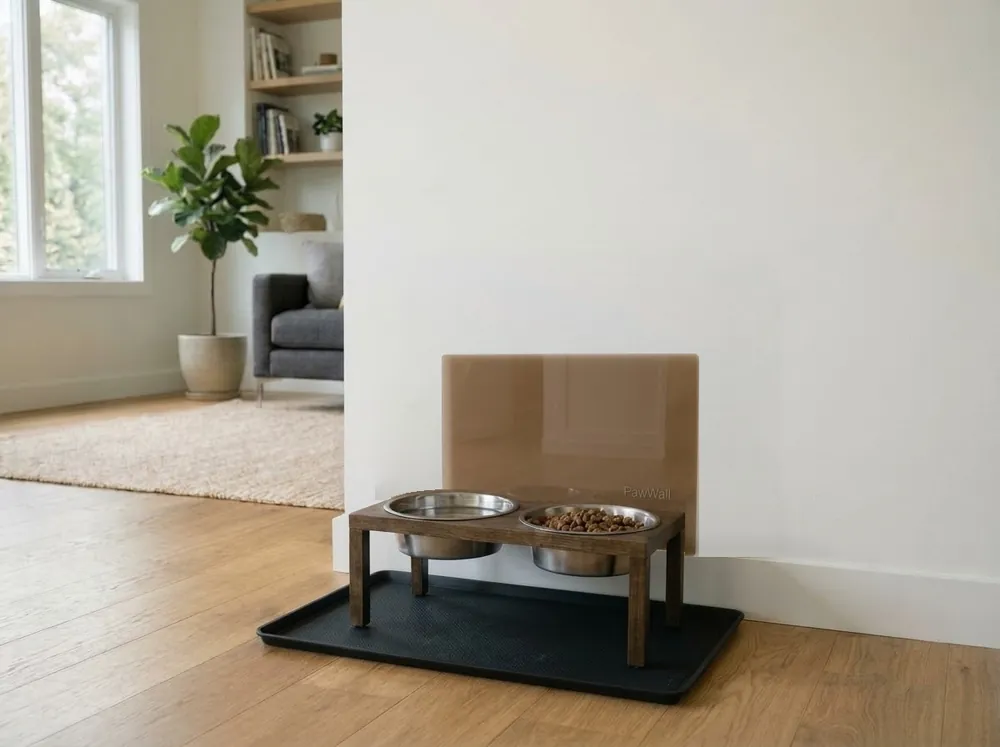
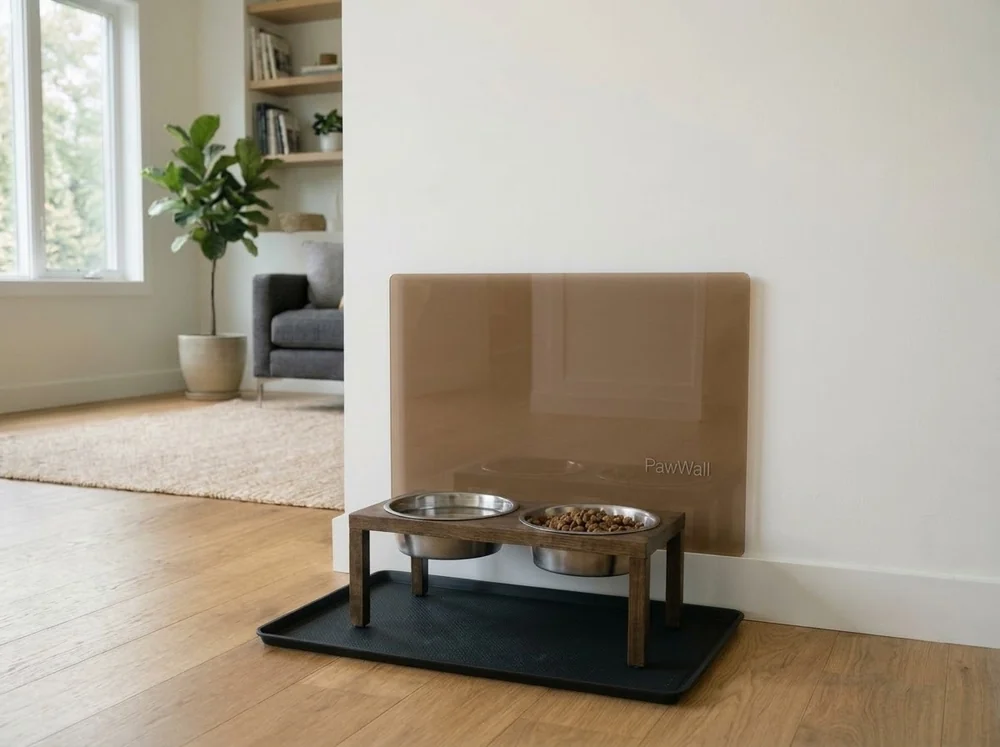
PawWall: fotos del cliente como talla M y nueva talla L con panel 70×50
Claude-Session: https://claude.ai/code/session_013GfqyHzpRR2JBrbXYAACXR

Changed region(s): [[0.372, 0.3387, 0.775, 0.7697]]

diff --git a/pawwall/app.js b/pawwall/app.js
@@ -10,7 +10,7 @@ var LINEAS={DogWall:"perros",CatWall:"gatos"};
 /* acabados disponibles en cada línea: CatWall solo en Transparente Básico */
 var ACAB={DogWall:["tr","an","br"],CatWall:["tr"]};
 /* fotos del configurador por línea, acabado y talla: [x, y, ancho, alto del panel en %, ancho y alto de la foto] */
-var FOTO={"dog-tr-L":[39,36.5,36,38.06,1200,896],"dog-an-L":[39,36.54,36,38.1,1200,895],"dog-br-L":[39,36.5,36,38.06,1200,896],"dog-tr-M":[44.17,47.32,25.75,27.23,1200,896],"dog-an-M":[44.17,47.37,25.75,27.26,1200,895],"dog-br-M":[44.17,47.32,25.75,27.23,1200,896],"cat-tr-L":[10.44,25.26,71.33,53.39,872,768],"cat-tr-M":[20.64,40.49,50.92,38.15,872,768]};
+var FOTO={"dog-tr-M":[39,36.5,36,38.06,1200,896],"dog-an-M":[39,36.54,36,38.1,1200,895],"dog-br-M":[39,36.5,36,38.06,1200,896],"dog-tr-L":[36.67,21.32,50.42,53.24,1200,896],"dog-an-L":[36.67,21.34,50.42,53.3,1200,895],"dog-br-L":[36.67,21.32,50.42,53.24,1200,896],"cat-tr-M":[10.44,25.26,71.33,53.39,872,768],"cat-tr-L":[5.03,6.32,88.34,73.28,962,768]};
 /* tienda de PawWall en Velority: productos, precios y pedidos (los gestiona Ángel desde su portal › Catálogo / Pedidos) */
 var TIENDA_CLAVE="799fe49875d3c656",API="https://ufwuvbjrgvphbggkfkuh.supabase.co/functions/v1/productos";
 var CAT={},AJUSTES=null,CAT_OK=false,alCargar=[];
@@ -42,7 +42,7 @@ function pintarCarro(){
   C.forEach(function(x){x.p=PR(x.col,x.g,x.t)+(x.nombre?GR(x.g):0)});
   var n=C.reduce(function(a,x){return a+x.q},0),t=C.reduce(function(a,x){return a+x.p*x.q},0);
   $("#n-carro").textContent=n;$("#t-carro").textContent=eur(t);
-  $("#lista").innerHTML=C.length?C.map(function(x,i){var g=GAMAS[x.g];return '<div class="linea"><img src="img/conf-'+(x.col=="CatWall"?"cat":"dog")+'-'+x.g+'-'+x.t+'.webp" alt=""><div><b>'+esc(x.col+" "+g.n)+'</b><small>Talla '+x.t+' · '+TALLAS[x.t]+(x.nombre?'<br>Nombre grabado: «'+esc(x.nombre)+'»':'')+'</small><div class="qt"><button data-i="'+i+'" data-d="-1" aria-label="Quitar uno">−</button>'+x.q+'<button data-i="'+i+'" data-d="1" aria-label="Añadir uno">+</button><button class="q" data-i="'+i+'" data-d="x">Eliminar</button></div></div><div class="pr">'+eur(x.p*x.q)+'</div></div>'}).join(""):'<p class="vacio">Tu carrito está vacío.<br><a href="configurador.html">Configura tu PawWall</a></p>';
+  $("#lista").innerHTML=C.length?C.map(function(x,i){var g=GAMAS[x.g];return '<div class="linea"><img src="img/conf-'+(x.col=="CatWall"?"cat":"dog")+'-'+x.g+'-'+x.t+'.webp?t2" alt=""><div><b>'+esc(x.col+" "+g.n)+'</b><small>Talla '+x.t+' · '+TALLAS[x.t]+(x.nombre?'<br>Nombre grabado: «'+esc(x.nombre)+'»':'')+'</small><div class="qt"><button data-i="'+i+'" data-d="-1" aria-label="Quitar uno">−</button>'+x.q+'<button data-i="'+i+'" data-d="1" aria-label="Añadir uno">+</button><button class="q" data-i="'+i+'" data-d="x">Eliminar</button></div></div><div class="pr">'+eur(x.p*x.q)+'</div></div>'}).join(""):'<p class="vacio">Tu carrito está vacío.<br><a href="configurador.html">Configura tu PawWall</a></p>';
   $("#pagar").disabled=!C.length;$("#pagar").style.opacity=C.length?1:.5;
 }
 $("#lista").addEventListener("click",function(e){var b=e.target.closest("button[data-i]");if(!b)return;var i=+b.dataset.i;if(b.dataset.d=="x")C.splice(i,1);else{C[i].q+=+b.dataset.d;if(C[i].q<1)C.splice(i,1)}guardar();pintarCarro()});
@@ -118,7 +118,7 @@ if(form){
     document.querySelectorAll('#c-acab input').forEach(function(i){i.closest('label').hidden=ok.indexOf(i.value)<0});
     $("#c-solo").hidden=ok.length>1;
     form.col.value=S.col;form.g.value=S.g;form.t.value=S.t;
-    var g=GAMAS[S.g],img=$("#c-img"),k=(S.col=="CatWall"?"cat":"dog")+"-"+S.g+"-"+S.t,f=FOTO[k],src="img/conf-"+k+".webp";
+    var g=GAMAS[S.g],img=$("#c-img"),k=(S.col=="CatWall"?"cat":"dog")+"-"+S.g+"-"+S.t,f=FOTO[k],src="img/conf-"+k+".webp?t2";
     if(img.getAttribute("src")!=src){img.style.opacity=.2;img.onload=function(){img.style.opacity=1;ajustarGrab()};img.src=src}
     img.parentNode.style.aspectRatio=f[4]+"/"+f[5];
     img.alt="Panel "+S.col+" "+g.n+" talla "+S.t+" ("+TALLAS[S.t]+") colocado en la pared";

diff --git a/pawwall/configurador.html b/pawwall/configurador.html
@@ -128,6 +128,6 @@
 <div id="p-ok" hidden></div>
 </div></dialog>
 <div class="barra-m" id="barra-m" aria-hidden="true"><div><small>Total</small><b id="bm-total"></b></div><button class="btn osc" type="button" id="bm-add" tabindex="-1">Añadir al carrito</button></div>
-<script src="app.js"></script>
+<script src="app.js?t2"></script>
 </body>
 </html>

diff --git a/pawwall/catwall.html b/pawwall/catwall.html
@@ -100,6 +100,6 @@
 </form>
 <div id="p-ok" hidden></div>
 </div></dialog>
-<script src="app.js"></script>
+<script src="app.js?t2"></script>
 </body>
 </html>

diff --git a/pawwall/dogwall.html b/pawwall/dogwall.html
@@ -100,6 +100,6 @@
 </form>
 <div id="p-ok" hidden></div>
 </div></dialog>
-<script src="app.js"></script>
+<script src="app.js?t2"></script>
 </body>
 </html>

diff --git a/pawwall/index.html b/pawwall/index.html
@@ -132,6 +132,6 @@
 </form>
 <div id="p-ok" hidden></div>
 </div></dialog>
-<script src="app.js"></script>
+<script src="app.js?t2"></script>
 </body>
 </html>

diff --git a/pawwall/como-funciona.html b/pawwall/como-funciona.html
@@ -99,6 +99,6 @@
 </form>
 <div id="p-ok" hidden></div>
 </div></dialog>
-<script src="app.js"></script>
+<script src="app.js?t2"></script>
 </body>
 </html>

diff --git a/pawwall/distribuidores.html b/pawwall/distribuidores.html
@@ -99,6 +99,6 @@
 </form>
 <div id="p-ok" hidden></div>
 </div></dialog>
-<script src="app.js"></script>
+<script src="app.js?t2"></script>
 </body>
 </html>

diff --git a/pawwall/nosotros.html b/pawwall/nosotros.html
@@ -97,6 +97,6 @@
 </form>
 <div id="p-ok" hidden></div>
 </div></dialog>
-<script src="app.js"></script>
+<script src="app.js?t2"></script>
 </body>
 </html>

diff --git a/pawwall/personalizacion.html b/pawwall/personalizacion.html
@@ -97,6 +97,6 @@
 </form>
 <div id="p-ok" hidden></div>
 </div></dialog>
-<script src="app.js"></script>
+<script src="app.js?t2"></script>
 </body>
 </html>

diff --git a/pawwall/preguntas.html b/pawwall/preguntas.html
@@ -93,6 +93,6 @@
 </form>
 <div id="p-ok" hidden></div>
 </div></dialog>
-<script src="app.js"></script>
+<script src="app.js?t2"></script>
 </body>
 </html>
